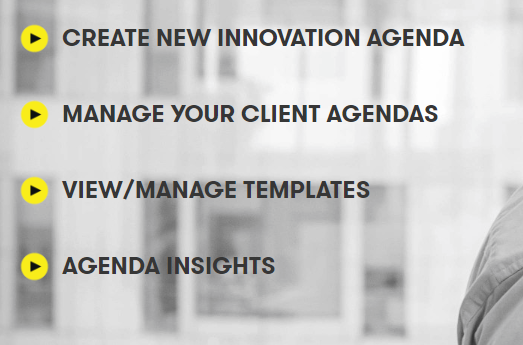
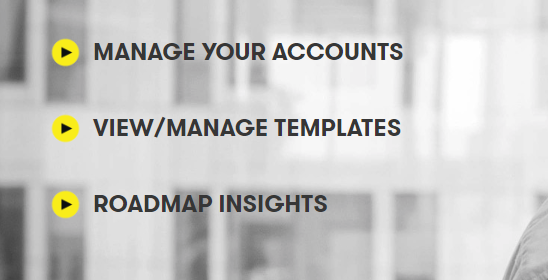
:pencil: Updated roadmap training to match UI updates

diff --git a/training/Roadmaps/InitialSetup.md b/training/Roadmaps/InitialSetup.md
@@ -9,45 +9,46 @@
     <br>![appblock](images/appblock.png)
 1. Select **`Sign In`** from the header and login with your global pass account
     <br>![login](images/login.png)
-1. Select to `Create new Roadmap`<br>
+1. Select to `Manage your accounts`<br>
     <br>![agenda1](images/agenda1.png)
-1. Select to `Create new`<br>
-    <br>![agenda1](images/agenda2.png)<br>
+    :bulb: Within this view you edit, view, copy or delete any existing roadmaps you have access too<br>
+    :bulb: You can also view your assigned accounts which do not currently have a digital roadmap created for them<br>
+    :information_desk_person: This guide assumes you are creating a new roadmap
+1. Select `Create new`<br>
+    <br>![agenda1](images/agenda1a.png)<br>
+1.  <br>![agenda1](images/agenda2.png)<br>
+    Select `Create New`<br>
     `From Template` is described in the following training module [Roadmap Templates](agendaTemplates.md)<br>
 1. The new Roadmap form is broken down into 5 sections
     - General Information
-    - Goals
-    - Business Value Framework
+    - Goals & KPi's
     - Client Value Chains
-    - Stakeholders<br>
+    - Stakeholders
+    - Advanced Settings<br>
 1. General Information<br>
     **All these values are required**
     <br>![agenda1](images/agenda3.png)<br>
-    - Name - the shortname you want to give this Roadmap<br>
-    - Description - a description of the Roadmap<br>
-    - Status - current status of the Roadmap (`draft`, `in review`, `published`, `obsolete`)<br>
-    - Account name - drop down list of available accounts<br>
+    - **Type** - _Optional_ Allows you to give a type description to your digital roadmap
+    - **Name** - the shortname you want to give this Roadmap<br>
+    - **Description** - a description of the Roadmap<br>
+    - **Status** - current status of the Roadmap (`draft`, `in review`, `published`, `obsolete`)<br>
+    - **Account name** - drop down list of available accounts<br>
     by default all users have access to the open `Training Account`, plus any other accounts to which you are assigned<br>
-    - Industry<br>
+    - **Industry**<br>
     If a real account is selected the industry values are pre-populated, for training accounts you can select which industry you want to create your training Roadmap against<br>
-    - Valid Until date : date when the Roadmap is no longer active<br>
-    - Template : Yes or No <br>
+    - **Valid Until date** : date when the Roadmap is no longer active<br>
+    - **Template** : Yes or No <br>
     Will this template be a reusable template?  or dedicated for an account?
 
-1. Goals
-    **Optional**
+1. Goals & KPI's <br>
+    **Optional**<br>
     <br>![agenda1](images/agenda4.png)<br>
-    You can add any number of goals which are relevant to this Roadmap<br>
+    You can add any number of goals and KPI's which are relevant to this Roadmap<br>
     You can pull these in from the `accounts business value framework`<br>
     :bulb: Goals can be associated to the client strategic initiative which you create within your Roadmap<br>
 
-1. Business Value Framework<br>
-     **Optional**
-    <br>![agenda1](images/agenda5.png)<br>
-    You can add the account business value framework as an image as a reference within your roadmap<br>
-    :information_desk_person: Save your account BVF slide as an PNG or JPEG image file to upload it<br>
 1. Client Value Chains<br>
-    If your account is related to an industry and sub industry with business trends defined within Digital Explorer Trends, your `client value chains` will be pre-populated for you.<br>   These pre-populated client value chains will also pre-select any filters within the roadmap canvas to help with the selection of relevant trends.<br>
+    If your account is related to an industry and sub industry with business trends defined within DXC Digital Explorer Trends, your `client value chains` will be pre-populated for you.<br>   These pre-populated client value chains will also pre-select any filters within the roadmap canvas to help with the selection of relevant trends.<br>
     :bulb: You are edit or delete the existing client value chains<br>
     <br>![agenda1](images/agenda6.png)<br>
     You can add supporting information to each client value chain by selecting the edit icon ![agenda1](images/agenda6a.png)<br>
@@ -64,6 +65,12 @@
     **Optional**<br>
     You can add any client stakeholders as a point of reference within your roadmap, note these people do not gain access to the innovation roadmap.
     ![agenda1](images/agenda8.png)<br>
+
+1. Advanced Settings<br>
+    Within the advanced settings you can configure the number of time segments you wish to have within your roadmap.<br>
+    The default setup is 7 segments<br>
+    :bulb: You can also rename the segments.<br>
+    ![agenda1](images/advancedSettings.png)<br>
 
 :information_desk_person:  Your roadmap is now ready to be created, either select `Save & Close` or `next` to proceed to the `roadmap canvas`<br>
 

diff --git a/training/Roadmaps/RoadmapCanvas.md b/training/Roadmaps/RoadmapCanvas.md
@@ -1,17 +1,18 @@
-# Digital Explorer | Roadmaps - Creating your Agenda
+# Digital Explorer | Roadmaps - Creating your Digital Blueprint
 
 ## The Roadmaps Canvas
-The main editing area of the innovation agenda is called the **Roadmaps Canvas**
+The main editing area of the Digital Blueprint is called the **Roadmaps Canvas**
 ![agenda1](images/agenda9.png)<br>
 
 #### Client Value Chains
 The canvas presents each client value chain on it's own dedicated tab, you can switch between client chains by changing by selecting a different tab.  you can also add a new client value chain by selecting the [+] 
 
 #### The Canvas Layout
-The canvas is split into 7 time segments
-- Q1, Q2, Q3, Q4
-- Year 2 1st Half, Year 2 2nd Half
-- Year 3+<br>
+The canvas is split into the configured time segments<br>
+:bulb: You can configure the time segments by selecting the `Setting` icon within tabs section<br>
+![agenda1](images/advancedSettingsCanvas.png)<br>
+![agenda1](images/advancedSettings.png)<br>
+
 It is within these time segments where you place the relevant trends<br>
 :bulb: You can add notes to each client value chain directly within the canvas, click on `notes` on the left hand side to expand your <br>
 ![agenda1](images/agenda10.png)<br>
@@ -32,12 +33,12 @@ You can edit and provide further information to any trend within the roadmap, si
 - Client Value Chain :information_desk_person: You can copy and move a trend between client value chains
 - Innovation Level : defines the innovation level this trend will have 
 - Business Areas : defined the business area this trend will impact within the clients environment
-- Focus Area : is this trend a focus area for DXC and the client and potentially included within a `client strategic initiative`?
+- Focus Area : is this trend a focus area for DXC and the client and potentially included within a `client idea`?
 
 <br>
 Once you have completed the canvas, select `save and view` to view the roadmap output<br>
 <br>
-:bulb: The Agenda canvas will automatically save every 15 minutes<br><br>
-:high_brightness: Aim for a maximum of 12 trends within each client value chain, any more and you may wish to split the value chain or roadmap into multiple parts.<br>
+:bulb: The Roadmap canvas will automatically save every 15 minutes<br><br>
+:high_brightness: **Aim for a maximum of 12 trends within each client value chain, any more and you may wish to split the value chain or roadmap into multiple parts.**<br>
 
 ## [Next - The Roadmap Output](RoadmapOutput.md)
